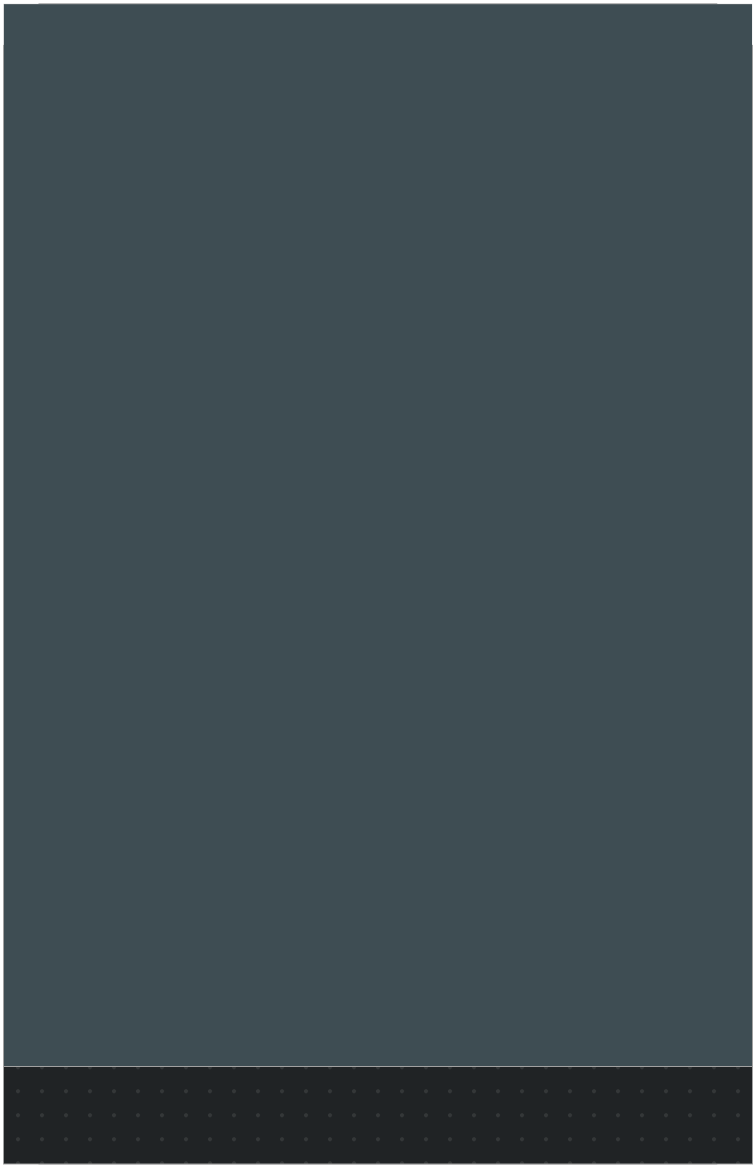
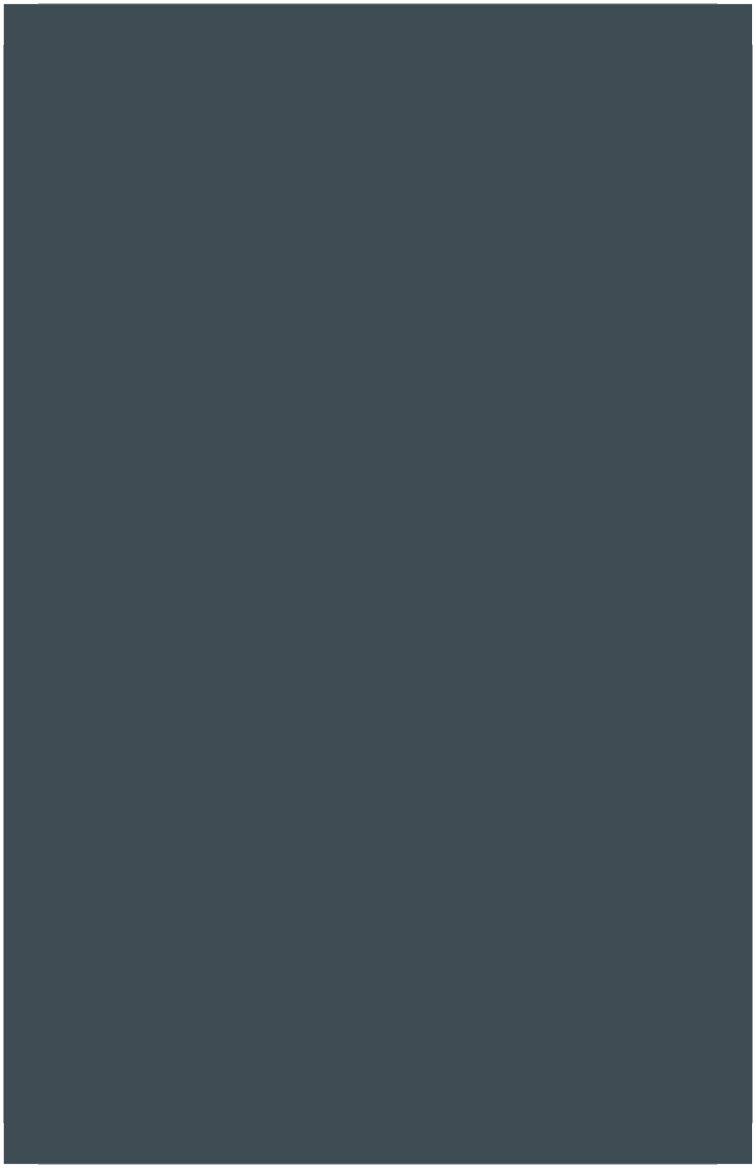
fix bug

Changed region(s): [[0.0, 0.8938, 1.0, 1.0]]

diff --git a/PhotoStand/client/src/components/BackgroundSelector.jsx b/PhotoStand/client/src/components/BackgroundSelector.jsx
@@ -1,12 +1,12 @@
 import { useState } from "react";
 import "../styles/BackgroundSelector.css";
 
-import photoText from "../assets/select_fons/photo_text.png";
 import fonMask from "../assets/select_fons/fonMask.png";
 import selectBtn from "../assets/select_fons/selectBtn.png";
 import radioBtnActive from "../assets/select_fons/radioBtnActive.png";
 import radioBtn from "../assets/select_fons/radionBtn.png";
 import text from "../assets/select_fons/text.png";
+import maskBtmGroup from "../assets/select_fons/mask_btn_group.png";
 
 import background_1 from "../fons/image 1.png";
 import background_2 from "../fons/image 2.png";
@@ -30,24 +30,6 @@ export default function BackgroundSelector({ onSelect }) {
       <div className="conteiner-selecct">
         <div className="background-selector-mask-wrapper">
           <img src={fonMask} alt="Маска" className="background-selector-mask" />
-          <div className="background-selector-image-wrapper">
-            <img
-              src={backgrounds[currentIndex].url}
-              alt={`Фон ${currentIndex + 1}`}
-              className="background-selector-image"
-            />
-            <div className="background-selector-radios">
-              {backgrounds.map((_, idx) => (
-                <img
-                  key={idx}
-                  src={idx === currentIndex ? radioBtnActive : radioBtn}
-                  alt={idx === currentIndex ? "Выбрано" : "Не выбрано"}
-                  className="background-selector-radio"
-                  onClick={() => setCurrentIndex(idx)}
-                />
-              ))}
-            </div>
-          </div>
         </div>
         <img src={text} alt="text" className="background-selector-desc" />
         <button

diff --git a/PhotoStand/client/src/styles/BackgroundSelector.css b/PhotoStand/client/src/styles/BackgroundSelector.css
@@ -12,68 +12,16 @@
   background: transparent;
 }
 
-.background-selector-photo-text {
-  position: absolute;
-  top: 32px;
-  left: 50%;
-  transform: translate(-50%, 0);
-  z-index: 2;
-  height: 48px;
-}
 
 .background-selector-mask-wrapper {
   position: relative;
-  width: 800px;
-  height: 1060px;
-  margin-top: 120px;
+  margin-top: 260px;
   margin-bottom: 32px;
   display: flex;
   align-items: center;
   justify-content: center;
 }
 
-.background-selector-mask {
-  position: absolute;
-  top: 0;
-  left: 0;
-  width: 100%;
-  height: 100%;
-  z-index: 1;
-  pointer-events: none;
-}
-
-.background-selector-image-wrapper {
-  position: absolute;
-  top: 0;
-  left: 0;
-  width: 100%;
-  height: 100%;
-  z-index: 0;
-  display: flex;
-  align-items: center;
-  justify-content: center;
-}
-
-.background-selector-image {
-  max-width: 90%;
-  max-height: 90%;
-  object-fit: contain;
-  display: block;
-}
-
-.background-selector-radios {
-  display: flex;
-  justify-content: center;
-  gap: 32px;
-  margin-bottom: 32px;
-}
-
-.background-selector-radio {
-  width: 36px;
-  height: 36px;
-  cursor: pointer;
-  user-select: none;
-}
 
 .background-selector-desc {
   position: absolute;
@@ -93,10 +41,6 @@
   padding: 0;
   cursor: pointer;
   display: block;
-  margin: 0 auto 48px auto;
+  margin: 0 auto 12px auto;
   margin-top: auto;
-}
-.background-selector-btn img {
-  display: block;
-  margin-bottom: 10px;
 }

diff --git a/PhotoStand/client/src/styles/WelcomeScreen.css b/PhotoStand/client/src/styles/WelcomeScreen.css
@@ -19,13 +19,13 @@
 .welcome-description,
 .welcome-start-btn {
   width: 55vw;
-  max-width: 594px;
+  max-width: 594px; /* 55% от 1080 */
   min-width: 180px;
   display: block;
 }
 
 .welcome-description {
-  margin-bottom: 4px;
+  margin-bottom: 8px;
 }
 
 .welcome-start-btn {
@@ -110,4 +110,4 @@
     font-size: 1rem;
     padding: 12px 24px;
   }
-}
+} 
